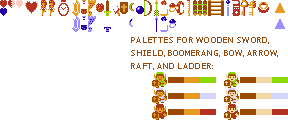
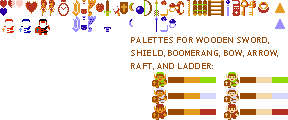
Added different colored armor to the shop

Changed region(s): [[0.0, 0.15, 0.1875, 0.3]]

diff --git a/ZeldaProject/Sprint0/Sprint0/Shop/Shop.cs b/ZeldaProject/Sprint0/Sprint0/Shop/Shop.cs
@@ -11,18 +11,18 @@ namespace Sprint0
         Sprint5 game;
         INPC OldMan;
         ShopText oldManText;
-        LinkInventory linkInv;
+        IPlayer link;
         Dictionary<IItem, ItemText> shopItems;
         RoomManager roomManager;
         Texture2D itemSheet;
         Texture2D dungeonSheet;
 
-        public Shop(LinkInventory inv, Texture2D npcSheet, Texture2D dungeonSheet, Texture2D itemSheet, RoomManager manager, Sprint5 game)
+        public Shop(IPlayer link, Texture2D npcSheet, Texture2D dungeonSheet, Texture2D itemSheet, RoomManager manager, Sprint5 game)
         {
             this.game = game;
             OldMan = new OldMan(ShopConstants.OLDMANX * GameConstants.SCALE, ShopConstants.OLDMANY * GameConstants.SCALE, npcSheet);
             oldManText = new ShopText(dungeonSheet, game);
-            linkInv = inv;
+            this.link = link;
             shopItems = new Dictionary<IItem, ItemText>();
             roomManager = manager;
             this.dungeonSheet = dungeonSheet;
@@ -79,36 +79,58 @@ namespace Sprint0
         {
             //bombs, sword upgrade, blue arrow/boomerang upgrade, armor/color upgrade
             shopItems.Clear();
-            BombItem bomb = new BombItem(new Rectangle(45 * GameConstants.SCALE, 110 * GameConstants.SCALE, 8 * GameConstants.SCALE, 14 * GameConstants.SCALE), new Rectangle(136, 0, 8, 14), itemSheet);
+            BombItem bomb = new BombItem(new Rectangle(50 * GameConstants.SCALE, 110 * GameConstants.SCALE, 8 * GameConstants.SCALE, 14 * GameConstants.SCALE), new Rectangle(136, 0, 8, 14), itemSheet);
             ItemText bombText = new ItemText(ShopConstants.BOMBCOST, dungeonSheet, bomb.GetLocationRectangle());
             shopItems.Add(bomb, bombText);
 
-            foreach(IItem item in linkInv.getLinkItems())
+            foreach(IItem item in link.GetLinkInventory().getLinkItems())
             {
                 if(item is BoomerangItem)
                 {
-                    BlueBoomerangItem blueBoomerang = new BlueBoomerangItem(new Rectangle(75 * GameConstants.SCALE, 110 * GameConstants.SCALE, 7 * GameConstants.SCALE, 15 * GameConstants.SCALE), new Rectangle(128, 16, 7, 15), itemSheet);
+                    BlueBoomerangItem blueBoomerang = new BlueBoomerangItem(new Rectangle(85 * GameConstants.SCALE, 110 * GameConstants.SCALE, 7 * GameConstants.SCALE, 15 * GameConstants.SCALE), new Rectangle(128, 16, 7, 15), itemSheet);
                     ItemText blueBoomerangText = new ItemText(ShopConstants.BLUEBOOMERANGCOST, dungeonSheet, blueBoomerang.GetLocationRectangle());
                     shopItems.Add(blueBoomerang, blueBoomerangText);
                 }
                 if (item is BowItem)
                 {
-                    BlueArrowItem blueArrow = new BlueArrowItem(new Rectangle(105 * GameConstants.SCALE, 110 * GameConstants.SCALE, 7 * GameConstants.SCALE, 15 * GameConstants.SCALE), new Rectangle(153, 16, 7, 15), itemSheet);
+                    BlueArrowItem blueArrow = new BlueArrowItem(new Rectangle(120 * GameConstants.SCALE, 110 * GameConstants.SCALE, 7 * GameConstants.SCALE, 15 * GameConstants.SCALE), new Rectangle(153, 16, 7, 15), itemSheet);
                     ItemText blueArrowText = new ItemText(ShopConstants.BLUEARROWCOST, dungeonSheet, blueArrow.GetLocationRectangle());
                     shopItems.Add(blueArrow, blueArrowText);
                 }
             }
-            IItem sword = linkInv.getLinkSword();
+            IItem sword = link.GetLinkInventory().getLinkSword();
             if (sword is BrownSwordItem)
             {
-                BlueSwordItem blueSword = new BlueSwordItem(new Rectangle(135 * GameConstants.SCALE, 110 * GameConstants.SCALE, 7 * GameConstants.SCALE, 15 * GameConstants.SCALE), new Rectangle(104, 16, 7, 15), itemSheet);
+                BlueSwordItem blueSword = new BlueSwordItem(new Rectangle(155 * GameConstants.SCALE, 110 * GameConstants.SCALE, 7 * GameConstants.SCALE, 15 * GameConstants.SCALE), new Rectangle(104, 16, 7, 15), itemSheet);
                 ItemText blueSwordText = new ItemText(ShopConstants.BLUESWORDCOST, dungeonSheet, blueSword.GetLocationRectangle());
                 shopItems.Add(blueSword, blueSwordText);
             } else if (sword is BlueSwordItem)
             {
-                MagicSwordItem magicSword = new MagicSwordItem(new Rectangle(135 * GameConstants.SCALE, 110 * GameConstants.SCALE, 7 * GameConstants.SCALE, 15 * GameConstants.SCALE), new Rectangle(112, 0, 8, 15), itemSheet);
+                MagicSwordItem magicSword = new MagicSwordItem(new Rectangle(155 * GameConstants.SCALE, 110 * GameConstants.SCALE, 7 * GameConstants.SCALE, 15 * GameConstants.SCALE), new Rectangle(112, 0, 8, 15), itemSheet);
                 ItemText magicSwordText = new ItemText(ShopConstants.MAGICSWORDCOST, dungeonSheet, magicSword.GetLocationRectangle());
                 shopItems.Add(magicSword, magicSwordText);
+            }
+            LinkColor color = ((Link)link).getLinkColor();
+            Rectangle armorDest = new Rectangle(190 * GameConstants.SCALE, 110 * GameConstants.SCALE, 15 * GameConstants.SCALE, 15 * GameConstants.SCALE);
+            switch (color)
+            {
+                case LinkColor.Green:
+                    RedLinkItem redLink = new RedLinkItem(armorDest, new Rectangle(1, 19, 16, 16), itemSheet);
+                    ItemText redLinkText = new ItemText(ShopConstants.REDLINKCOST, dungeonSheet, redLink.GetLocationRectangle());
+                    shopItems.Add(redLink, redLinkText);
+                    break;
+                case LinkColor.Red:
+                    BlueLinkItem blueLink = new BlueLinkItem(armorDest, new Rectangle(18, 19, 16, 16), itemSheet);
+                    ItemText blueLinkText = new ItemText(ShopConstants.BLUELINKCOST, dungeonSheet, blueLink.GetLocationRectangle());
+                    shopItems.Add(blueLink, blueLinkText);
+                    break;
+                case LinkColor.Blue:
+                    BlackLinkItem blackLink = new BlackLinkItem(armorDest, new Rectangle(35, 19, 16, 16), itemSheet);
+                    ItemText blackLinkText = new ItemText(ShopConstants.BLACKLINKCOST, dungeonSheet, blackLink.GetLocationRectangle());
+                    shopItems.Add(blackLink, blackLinkText);
+                    break;
+                default:
+                    break;
             }
         }
 
@@ -126,10 +148,10 @@ namespace Sprint0
         {
             ItemText text;
             shopItems.TryGetValue(item, out text);
-            Boolean ret = text.GetPrice() <= linkInv.getRupeeCount();
+            Boolean ret = text.GetPrice() <= link.GetLinkInventory().getRupeeCount();
             if (ret)
             {
-                linkInv.ChangeRupee(-1 * text.GetPrice());
+                link.GetLinkInventory().ChangeRupee(-1 * text.GetPrice());
                 oldManText.ChangeText(2);
             } else
             {

diff --git a/ZeldaProject/Sprint0/Sprint0/Collision/LinkItemHandler.cs b/ZeldaProject/Sprint0/Sprint0/Collision/LinkItemHandler.cs
@@ -18,27 +18,28 @@ namespace Sprint0
         public static void HandleCollision(IItem item, IPlayer player, List<INPC> npcs, List<SoundEffect> Collision_soundEffects, List<IItem> collidedItems)
         {
             if (!(item is Fire)) {
-               if (item is KeyItem || item is SecretKey || item is EnemyKey) HandleKey(item, player, Collision_soundEffects, collidedItems);
-               else if (item is HeartItem) HandleHeart(item, player, Collision_soundEffects, collidedItems);
-               else if (item is HeartContainerItem) HandleHeartContainer(item, player, Collision_soundEffects, collidedItems);
-               else if (item is BlueRupeeItem) HandleBlueRupee(item, player, Collision_soundEffects, collidedItems);
-               else if (item is YellowRupeeItem) HandleYellowRupee(item, player, Collision_soundEffects, collidedItems);
-               else if (item is ClockItem) HandleClock(item, npcs, collidedItems, Collision_soundEffects);
-               else if (item is BombItem) HandleBomb(item, player, collidedItems);
-               else if (item is MapItem)
-               {
+                if (item is KeyItem || item is SecretKey || item is EnemyKey) HandleKey(item, player, Collision_soundEffects, collidedItems);
+                else if (item is HeartItem) HandleHeart(item, player, Collision_soundEffects, collidedItems);
+                else if (item is HeartContainerItem) HandleHeartContainer(item, player, Collision_soundEffects, collidedItems);
+                else if (item is BlueRupeeItem) HandleBlueRupee(item, player, Collision_soundEffects, collidedItems);
+                else if (item is YellowRupeeItem) HandleYellowRupee(item, player, Collision_soundEffects, collidedItems);
+                else if (item is ClockItem) HandleClock(item, npcs, collidedItems, Collision_soundEffects);
+                else if (item is BombItem) HandleBomb(item, player, collidedItems);
+                else if (item is MapItem)
+                {
                     collidedItems.Add(item);
                     player.GetLinkInventory().linkMinimap.setMinimap(true);
                     player.GetLinkInventory().pauseScreen.setMap(true);
                     Collision_soundEffects[7].Play();
                 }
-               else if (item is CompassItem)
-               {
+                else if (item is CompassItem)
+                {
                     collidedItems.Add(item);
                     player.GetLinkInventory().linkMinimap.setCompass(true);
                     player.GetLinkInventory().pauseScreen.setCompass(true);
                     Collision_soundEffects[7].Play();
                 }
+                else if (item is RedLinkItem || item is BlueLinkItem || item is BlackLinkItem) HandleColorChange(player, item, Collision_soundEffects, collidedItems);
                 else HandleOtherItems(item, player, Collision_soundEffects, collidedItems);
             }  
         }
@@ -101,6 +102,15 @@ namespace Sprint0
                     ((IEnemy)nPC).Stun();
                 }
             }
+        }
+
+        private static void HandleColorChange(IPlayer player, IItem item, List<SoundEffect> Collision_soundEffects, List<IItem> collidedItems)
+        {
+            if (item is RedLinkItem) ((Link)player).changeColor(LinkColor.Red);
+            else if (item is BlueLinkItem) ((Link)player).changeColor(LinkColor.Blue);
+            else if (item is BlackLinkItem) ((Link)player).changeColor(LinkColor.Black);
+            Collision_soundEffects[5].Play();
+            collidedItems.Add(item);
         }
 
         private static void HandleOtherItems(IItem item, IPlayer player, List<SoundEffect> Collision_soundEffects, List<IItem> collidedItems)

diff --git a/ZeldaProject/Sprint0/Sprint0/Sprint5.cs b/ZeldaProject/Sprint0/Sprint0/Sprint5.cs
@@ -185,7 +185,7 @@ namespace Sprint0
                                         this.GraphicsDevice.Viewport.Bounds.Height - WallConstants.BOTTOMWALL, itemsSheet);
 
             link = new Link(contentManager.Load<Texture2D>("LinkSpriteSheet"), linkSheetList, Link_soundEffects, inventory);
-            shop = new Shop(link.GetLinkInventory(), npcSheet, dungeonSheet, itemsSheet, roomManager, this);
+            shop = new Shop(link, npcSheet, dungeonSheet, itemsSheet, roomManager, this);
             deathMessageSprite = new DeathMessageSprite(dungeonSheet, roomManager, Text_soundEffects[1].CreateInstance(), link);
 
             //SongManager

diff --git a/ZeldaProject/Sprint0/Sprint0/Shop/ShopConstants.cs b/ZeldaProject/Sprint0/Sprint0/Shop/ShopConstants.cs
@@ -20,6 +20,9 @@ namespace Sprint0
         public const int BLUEBOOMERANGCOST = 50;
         public const int BLUESWORDCOST = 25;
         public const int MAGICSWORDCOST = 50;
+        public const int REDLINKCOST = 50;
+        public const int BLUELINKCOST = 75;
+        public const int BLACKLINKCOST = 99;
         public static readonly int[] numberSource = { 1, 142, 1, 150, 9, 142, 9, 150, 17, 142, 17, 150, 25, 142, 25, 150, 33, 142, 33, 150};
         public static readonly int[] letterDest
             = { 95, 120, 102, 120, 109, 120, 116, 120, 123, 120, 130, 120, 137, 120, 144, 120, 151, 120, 158, 120, 165, 120,

diff --git a/ZeldaProject/Sprint0/Sprint0/Link/Link.cs b/ZeldaProject/Sprint0/Sprint0/Link/Link.cs
@@ -80,6 +80,11 @@ namespace Sprint0
             if(getLinkStateMachine().getAnimation() == Animation.PickUpItem) spriteBatch.Draw(itemSheet, itemDestination, itemSource, Color.White);
         }
 
+        public LinkColor getLinkColor()
+        {
+            return currentColor;
+        }
+
         public void changeColor(LinkColor newColor)
         {
             stateMachine.setColor(newColor);

diff --git a/ZeldaProject/Sprint0/Sprint0/Link/LinkInventory.cs b/ZeldaProject/Sprint0/Sprint0/Link/LinkInventory.cs
@@ -337,6 +337,7 @@ namespace Sprint0
         public void ChangeRupee(int num)
         {
             rupeeCount += num;
+            if (rupeeCount > LinkConstants.MAXRUPEECOUNT) rupeeCount = LinkConstants.MAXRUPEECOUNT;
         }
 
         public void addBomb()

diff --git a/ZeldaProject/Sprint0/Sprint0/Link/LinkConstants.cs b/ZeldaProject/Sprint0/Sprint0/Link/LinkConstants.cs
@@ -15,5 +15,6 @@ namespace Sprint0
         public static int LINKSIZEATTACKXFRAME1 = 27;
         public static int LINKSIZEATTACKXFRAME2 = 23;
         public static int LINKSIZEATTACKXFRAME3 = 19;
+        public static int MAXRUPEECOUNT = 99;
     }
 }
